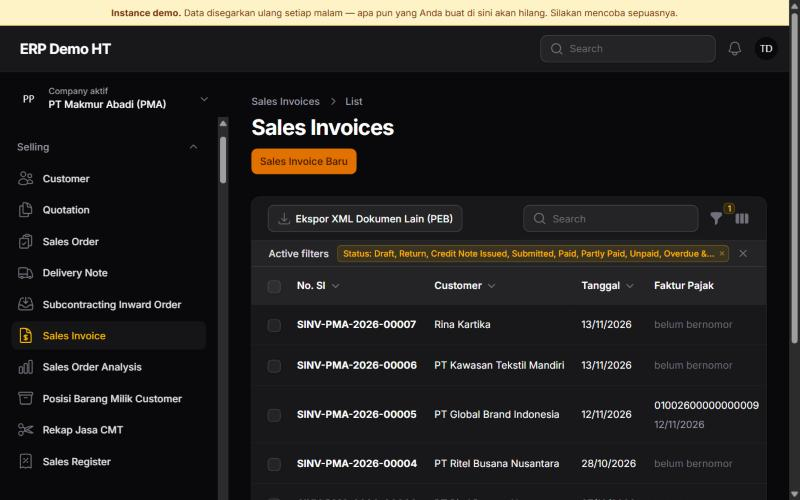
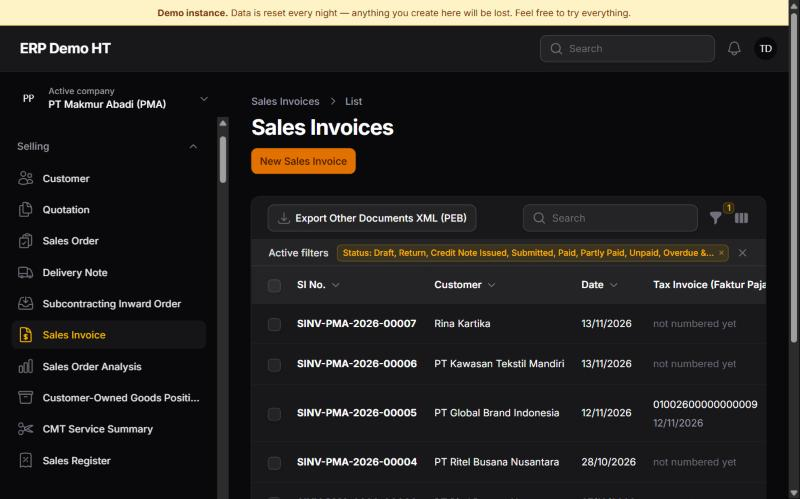
Retake screenshots with the English interface

diff --git a/README.md b/README.md
@@ -22,7 +22,7 @@ The demo company is fictional (PT Makmur Abadi, a garment manufacturer). All dat
 | ![Stock ledger](screenshots/03-stock-ledger.png) | ![Balance sheet](screenshots/04-balance-sheet.png) |
 | **Stock ledger**: every movement per item and warehouse | **Balance sheet**: balanced check, Indonesian accounting standard (PSAK) layout |
 
-*Some labels are still in Indonesian; an English interface is in progress.*
+*The interface is in English (each user can switch to Indonesian). The demo company's data, such as item, warehouse and account names, is in Indonesian, and a few labels are still being translated.*
 
 ---
 
